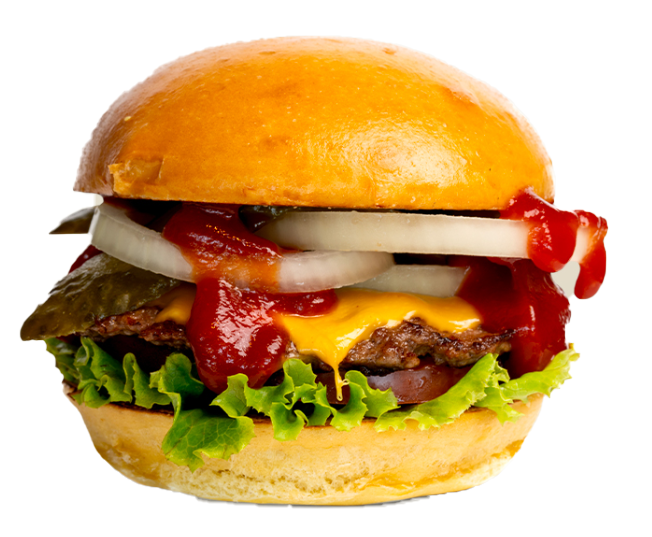
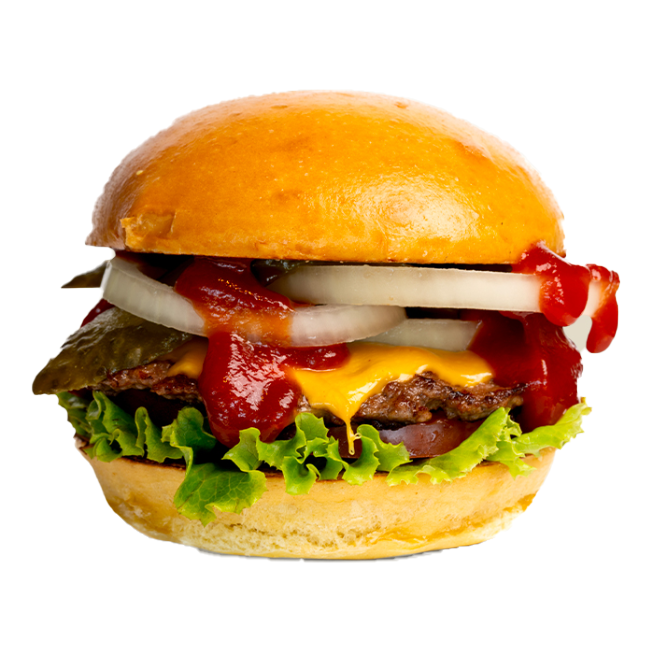
nouvelle image, update responsive, update carte

diff --git a/src/app/components/carte/carte.component.html b/src/app/components/carte/carte.component.html
@@ -1,43 +1,55 @@
-<section id="carte" class="flex flex-col bg-smash-yellow py-20 px-6">
+<section id="carte" class="flex flex-col bg-gradient-to-r from-smash-yellow to-smash-red py-20 px-6">
     <div class="flex flex-col w-full text-center mb-10">
-        <h1 class="text-6xl font-bold text-smash-grey">Notre carte</h1>
+        <h1 class="text-6xl font-bold text-white">Notre carte</h1>
     </div>
     <div class="grid grid-cols-1 xl:grid-cols-3">
-        <div class="flex flex-col bg-white text-center m-2 rounded-md items-center hover:shadow-lg hover:shadow-smash-red duration-300 overflow-hidden">
-            <h1 class="self-center text-6xl">Burgers</h1>
-            <button>
-                <img class="h-80 w-fit hover:scale-110 duration-300" src="../../../assets/images/burgerz_transparant.png" alt="">
-            </button>
+        <div class="flex flex-col bg-white text-center m-2 rounded-md items-center hover:shadow-lg hover:shadow-smash-red duration-300 overflow-hidden py-4">
+            <h1 class="self-center text-4xl font-bold mb-2">Burgers</h1>
+            <div class="bg-smash-red rounded-full p-4">
+                <button class="">
+                    <img class="h-64 w-fit hover:scale-110 duration-300" src="../../../assets/images/burger_triple.png" alt="">
+                </button>
+            </div>
         </div>
-        <div class="flex flex-col bg-white text-center m-2 rounded-md items-center hover:shadow-lg hover:shadow-smash-red duration-300 overflow-hidden">
-            <h1 class="self-center text-6xl">Frites fraîches</h1>
-            <button>
-                <img class="h-80 w-fit hover:scale-110 duration-300" src="../../../assets/images/frites_smash_hit.png" alt="">
-            </button>
+        <div class="flex flex-col bg-white text-center m-2 rounded-md items-center hover:shadow-lg hover:shadow-smash-red duration-300 overflow-hidden py-4">
+            <h1 class="self-center text-4xl font-bold mb-2">Frites fraîches</h1>
+            <div class="bg-smash-red rounded-full p-4">
+                <button>
+                    <img class="h-64 w-fit hover:scale-110 duration-300" src="../../../assets/images/frites_smash_hit.png" alt="">
+                </button>
+            </div>
         </div>
-        <div class="flex flex-col bg-white text-center m-2 rounded-md items-center hover:shadow-lg hover:shadow-smash-red duration-300 overflow-hidden">
-            <h1 class="self-center text-6xl">Hit dogs</h1>
-            <button>
-                <img class="h-80 w-fit hover:scale-110 duration-300" src="../../../assets/images/le_chien_chaud.png" alt="">
-            </button>
+        <div class="flex flex-col bg-white text-center m-2 rounded-md items-center hover:shadow-lg hover:shadow-smash-red duration-300 overflow-hidden py-4">
+            <h1 class="self-center text-4xl font-bold mb-2">Hit dogs</h1>
+            <div class="bg-smash-red rounded-full p-4">
+                <button>
+                    <img class="h-64 w-fit hover:scale-110 duration-300" src="../../../assets/images/le_chien_chaud.png" alt="">
+                </button>
+            </div>
         </div>
-        <div class="flex flex-col bg-white text-center m-2 rounded-md items-center hover:shadow-lg hover:shadow-smash-red duration-300 overflow-hidden">
-            <h1 class="self-center text-6xl">Burgers Veggie</h1>
-            <button>
-                <img class="h-80 w-fit hover:scale-110 duration-300" src="../../../assets/images/burger_veggies.png" alt="">
-            </button>
+        <div class="flex flex-col bg-white text-center m-2 rounded-md items-center hover:shadow-lg hover:shadow-smash-red duration-300 overflow-hidden py-4">
+            <h1 class="self-center text-4xl font-bold mb-2">Menus Veggie</h1>
+            <div class="bg-smash-red rounded-full p-4">
+                <button>
+                    <img class="h-64 w-fit hover:scale-110 duration-300" src="../../../assets/images/burger_veggies.png" alt="">
+                </button>
+            </div>
         </div>
-        <div class="flex flex-col bg-white text-center m-2 rounded-md items-center hover:shadow-lg hover:shadow-smash-red duration-300  overflow-hidden">
-            <h1 class="self-center text-6xl">Milkshakes</h1>
-            <button>
-                <img class="h-80 w-fit hover:scale-110 duration-300" src="../../../assets/images/milkshake_transparant.png" alt="">
-            </button>
+        <div class="flex flex-col bg-white text-center m-2 rounded-md items-center hover:shadow-lg hover:shadow-smash-red duration-300  overflow-hidden py-4">
+            <h1 class="self-center text-4xl font-bold mb-2">Milkshakes</h1>
+            <div class="bg-smash-red rounded-full p-4">
+                <button>
+                    <img class="h-64 w-fit hover:scale-110 duration-300" src="../../../assets/images/milkshake_transparant.png" alt="">
+                </button>
+            </div>
         </div>
-        <div class="flex flex-col bg-white text-center m-2 rounded-md items-center hover:shadow-lg hover:shadow-smash-red duration-300 overflow-hidden">
-            <h1 class="self-center text-6xl">Autres</h1>
-            <button>
-                <img class="h-80 w-fit hover:scale-110 duration-300" src="../../../assets/images/burger_autres.png" alt="">
-            </button>
+        <div class="flex flex-col bg-white text-center m-2 rounded-md items-center hover:shadow-lg hover:shadow-smash-red duration-300 overflow-hidden py-4">
+            <h1 class="self-center text-4xl font-bold mb-2">Autres</h1>
+            <div class="bg-smash-red rounded-full p-4">
+                <button>
+                    <img class="h-64 w-fit hover:scale-110 duration-300" src="../../../assets/images/burger_autres.png" alt="">
+                </button>
+            </div>
         </div>
     </div>
 </section>

diff --git a/src/app/components/restau/restau.component.html b/src/app/components/restau/restau.component.html
@@ -3,8 +3,8 @@
         <h1 class="text-6xl font-bold text-white">Notre restaurant</h1>
     </div>
     <div class="flex flex-row flex-wrap gap-4 justify-center">
-        <img class="flex-1 max-w-xl" src="../../../assets/images/restau_smash_hit.jpg" alt="">
-        <div class="flex flex-col flex-1 max-w-xl bg-white rounded-lg p-5 gap-2">
+        <img class="flex-1 xxs:w-auto sm:max-w-xl" src="../../../assets/images/restau_smash_hit.jpg" alt="">
+        <div class="flex flex-col flex-1 xxs:w-auto sm:max-w-xl bg-white rounded-lg p-5 gap-2">
             <h1 class="text-6xl font-bold text-smash-red">A propos de nous</h1>
             <h2 class="text-5xl font-bold text-smash-yellow">Lorem ipsum dolor</h2>
             <p>Lorem ipsum dolor sit amet consectetur, adipisicing elit. Velit nulla ab sapiente, dicta sed eligendi consequatur distinctio rem totam voluptates fuga qui quaerat, illo sunt laudantium quos iste temporibus nesciunt?</p>

diff --git a/src/app/components/map/map.component.html b/src/app/components/map/map.component.html
@@ -1,8 +1,8 @@
 <section id="contact" class="flex flex-col items-center w-full h-auto">
     <div class="bg-smash-red flex flex-col w-full items-center gap-2">
-        <div class="flex flex-row flex-wrap items-center gap-2 py-2">
+        <div class="flex flex-row flex-wrap items-center gap-2 py-2 justify-center">
             <img class="w-40 h-40" src="../../../assets/images/logo-smash-it-circle.png" alt="">
-            <div class="flex flex-col gap-1 text-white">
+            <div class="flex flex-col gap-1 text-white xxs:text-center xss:text-left">
                 <h1 class="text-2xl font-bold">Smash Hit</h1>
                 <p class="text-xl">4 Rue des Laps</p>
                 <p class="text-xl">51350 Cormontreuil</p>

diff --git a/src/app/pages/home/home.component.html b/src/app/pages/home/home.component.html
@@ -5,8 +5,8 @@
 <app-hit-du-mois></app-hit-du-mois>
 <app-carte></app-carte>
 <app-map></app-map>
-<div class="fixed bottom-2 right-2 bg-smash-red p-5 rounded-full hover:bg-smash-yellow hover:skew-y-6 duration-300">
+<div class="fixed bottom-4 right-4 bg-smash-red p-0 rounded-full hover:bg-smash-yellow hover:skew-y-6 duration-300 z-50">
     <button>
-        <img class="w-24" src="../../../assets/images/icon_order.png" alt="">
+        <img class="w-40" src="../../../assets/images/icon_order.png" alt="">
     </button>
 </div>

diff --git a/src/app/components/accueil/accueil.component.html b/src/app/components/accueil/accueil.component.html
@@ -1,5 +1,5 @@
 <section class="flex flex-col items-center bg-smash-red py-20">
     <img id="logo_smash_hit_header" class="h-80 w-80 rounded-full mb-4" src="../../../assets/images/logo_bien_detourer.png" alt="">
-    <h1 class="text-6xl text-smash-yellow font-bold">SMASH HIT</h1>
+    <h1 class="text-6xl text-smash-yellow font-bold text-center">SMASH HIT</h1>
     <h2 class="text-4xl text-smash-grey mb-4 font-bold text-center">QUALITÉ, FRAIS, ET JAMAIS SURGELÉ !</h2>
 </section>

diff --git a/tailwind.config.js b/tailwind.config.js
@@ -12,6 +12,7 @@ module.exports = {
       },
       screens: {
         'xs': '475px',
+        'xss': '345px',
         'xxs': '50px',
       }
     },
